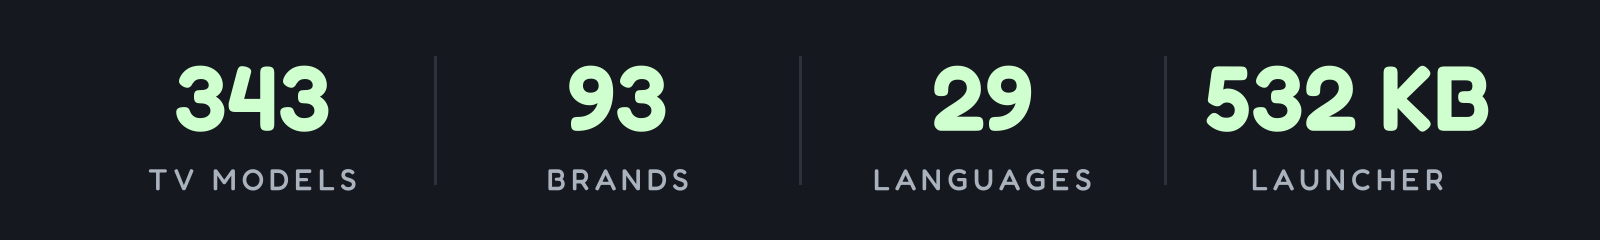
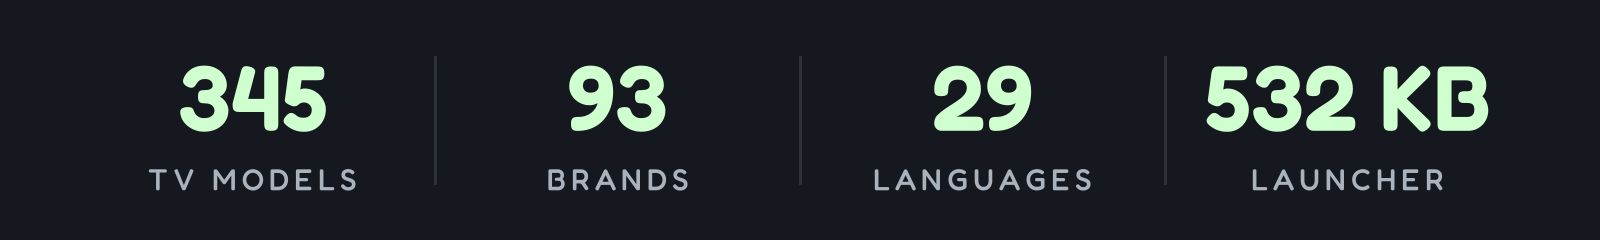
README: tables, counts and card after Round AG2 (345 TV models, 93 brands, 29 languages)

Changed region(s): [[0.0938, 0.2625, 0.2188, 0.5542]]

diff --git a/tools/readme_stats.py b/tools/readme_stats.py
@@ -67,7 +67,7 @@ try:
 except ImportError:
     sys.exit("readme_stats.py needs Pillow: tools/venv/bin/pip install -r tools/requirements-perf.txt")
 
-STATS = [("343", "TV MODELS"), ("93", "BRANDS"), ("29", "LANGUAGES"), ("532 KB", "LAUNCHER")]
+STATS = [("345", "TV MODELS"), ("93", "BRANDS"), ("29", "LANGUAGES"), ("532 KB", "LAUNCHER")]
 W, H = 1600, 240
 img = Image.new("RGB", (W, H), "#15181e"); d = ImageDraw.Draw(img)
 def f(size, wt):

diff --git a/examples/README.md b/examples/README.md
@@ -63,7 +63,7 @@ on that firmware, grouped and commented. These are starting points: comment out 
 | `hisense-fire-tv-55qd6qf/` | Hisense 55QD6QF Fire TV (AFTOLCBC82, ginza), Canada | Fire OS 8.1.8.0 / Android 11 | Fire OS 8.1 TV: Amazon telemetry, ACR, ad/recommendation feeders, advertising ID, Shopping, Channels, tutorials; Amazon preloads, Miracast and Alexa off by choice (vizzini returns at every boot); retailer apps re-enable at boot (remove them in Settings > Applications); Wi-Fi owned by oobe; input switching, the Home key and the homekey broadcast reserved to Amazon; AirPlay, Live TV, Silk, OTA kept; debloat only |
 | `hisense-65d62qh/` | Hisense 65D62QH (VIDAA_TV, MediaTek MT9653), China | Android TV 11 | China JuUI 9.0.10.845, same build as `vidda-mt9653/`: ad SDK/service, home operator rows and weather feed, telemetry, push channel, retail/hotel/demo and preloaded content, the 拍信创意 screensaver, and the AOSP leftovers this build leaves enabled; debloat only, stock Home `com.jamdeo.tv.vod` and Live TV kept, OTA kept; 26 packages; a USB HID freeze seen once with a second accessibility service enabled, fine after a rebuild — see [the device notes](../docs/devices/hisense-65d62qh.md) |
 | `hisense-e5q-pro/` | Hisense E5Q Pro (VIDAA_TV, MediaTek MT9653), China | Android TV 11 | China VIDAA firmware, the conservative subset of `vidda-mt9653/` (same build): ad SDK/service, push, telemetry, store/hotel/demo and preloaded content; stock launcher `com.jamdeo.tv.vod` and Live TV `com.jamdeo.tv.livetv` kept, OTA kept; 18 packages; [55E5Q-PRO ADB and factory-mode guide](hisense-e5q-pro/README.md) |
-| `hisense-fire-tv-aftcibfbd1/` | Hisense Fire TV (AFTCIBFBD1, coyote, MediaTek), US | Fire OS 8.0 / Android 11 | First Fire OS 8 TV: Amazon ACR, ad/recommendation feeders, advertising ID, Shopping, demo, tutorials, telemetry; Alexa, AirPlay, Miracast and preloads (Tubi, Music/Photos, miniTV, Naatyam, games, Ambient) off by choice; Alexa voice (vizzini) is re-enabled at every boot and nothing adb can do sticks; two protected packages noted; HDMI input switching is Amazon-only (TUNE_INPUT is signature-level); AdGuard Private DNS works; Kids, OTA, Live TV, Silk kept; debloat only, see the 2023 stick list for more packages |
+| `hisense-fire-tv-aftcibfbd1/` | Hisense Fire TV (AFTCIBFBD1, coyote, MediaTek), US | Fire OS 8.0 / Android 11 | First Fire OS 8 TV: Amazon ACR, ad/recommendation feeders, advertising ID, Shopping, demo, tutorials, telemetry; Alexa, AirPlay, Miracast and preloads (Tubi, Music/Photos, miniTV, Naatyam, games, Ambient) off by choice; Alexa voice (vizzini) is re-enabled at every boot and nothing adb can do sticks; two protected packages noted; HDMI input switching is Amazon-only (TUNE_INPUT is signature-level); AdGuard Private DNS works; Kids, OTA, Live TV, Silk kept; second unit 65U65SFC (U65 Pro, US) adds more telemetry, popups and promos, Alexa extras, Gallery and Luna; debloat only, see the 2023 stick list for more packages |
 | `hisense-hg9/` | Hisense HG9 (HiSmart 4K A4FFM) | Android TV 9 | ACR collector, Smartsense, log reporter, store mode, B2B; FLauncher used instead of stock; two more units ran launcher/ as Home: USB debugging alone opened ADB, setupwraith kept (owns the saved Wi-Fi), remote app buttons work without app_keys |
 | `hisense-hismarttv-a4-android11/` | Hisense HiSmartTV A4 (xiaoyushan, MStar m7322), Android 11 firmware RTT2.221108.001 | Android TV 11 | Same set after its Android 11 update, now with the FFM-style namespace: Hisense ACR (evservice), push messages, VIDAA Channels, HiAlexa, hotel mode, store disclaimer, Google partner tracking and auto-installs; streaming apps optional; OTA, casting, Assistant kept; USB debugging opens port 5555; the Input key only works through the stock launcher (VIEW_INPUTS); smartsense kept |
 | `hisense-hismarttv-a4/` | Hisense HiSmartTV A4 (xiaoyushan, MStar m7322), India | Android TV 9 | Hisense log reporting, sponsored home rows, store demo, preload auto-installs, OTA; USB debugging opens port 5555, no wireless toggle; smartsense kept |
@@ -138,7 +138,7 @@ on that firmware, grouped and commented. These are starting points: comment out 
 | `philips-google-tv-ta7/` | Philips Google TV TA7 (TPV, PH3M_AL_T32, MediaTek), Brazil; 55PUD7908/77, Latin America; 50PUD7408/77, Argentina | Google TV 14 | TP Vision `candeebug`/`gel` analytics, partner attribution and auto-installs, European operator apps, ad-consent and disclaimer popups; Netflix, Prime Video, Google TV app and Chromecast off by choice, Assistant and OTA kept; setupwraith + launcherx off for a custom launcher (setupwraith owned only an unused network); the gear button is KEYCODE_SETTINGS and needs HomeKeyService (`HOME_KEY_SERVICE=1`); theme; a third unit (50PUD7408/77, Argentina) adds the retail demo, ad-services, feedback and Health Connect, and measured HomeKeyService costing the volume key repeat (gear button or volume ramp, not both) |
 | `philips-r8g-google-tv/` | Philips R8G Google TV (MOKA, whitefield, Realtek RTD2851F), US | Google TV 14 | Anoki ACR, store-demo overlay, Realtek partner customizer, HbbTV (unused with ATSC), Android ad services; voice and ambient mode off by choice; port 5555 opens without pairing; setupwraith owned the Wi-Fi saved at setup and disabling it deleted the network; the standby light can be switched off over ADB ([note](../docs/devices/philips-r8g.md)) |
 | `philips-smart-4k-google-tv/` | Philips Smart 4K TV (Skyworth, eleonas, MediaTek), India | Google TV 14 | Skyworth recommendations, after-sale/activation trackers, iCast; Chromecast, Assistant off by choice; wireless-debugging pairing, setupwraith |
-| `philips-tpm191e/` | Philips TPM191E / 50PUS8505 / 55OLED854 / 65OLED804 / 50PUS7354 (TP Vision, PH9M_EA_5599, MediaTek MT5887), Europe | Android TV 12 | `org.droidtv` TP Vision list on Android 12: DAC analytics uploader, usage logging, demo mode, Top Picks, app gallery; voice, Prime Video, DLNA off by choice; Alexa, Chromecast and updates kept; DTS Play-Fi is re-enabled at every boot by the audio service, so it is left on; `eum`, `nettvbrowser`, `menudataapp` and `nettvregistration` kept, as on the 50PUS8517; for the 50PUS8505 and the 55OLED854, only an owner-selected subset and launcher handover were checked in one session, not the full list; the 55OLED854 found its remote's Settings button (scancode 357) and the OLED screensaver logo also seen on a different board; on one 65OLED804 tvrecommendations stayed off through restarts, and a held Home press needs `home_long_press_home`; another 65OLED804/12-reported unit had stock Home at observation and was not subjected to this list ([notes](philips-tpm191e/README.md)); a 50PUS7354 with the original remote needed `home_long_press_home` too, and had its Netflix (632) and Rakuten (779) keys remapped by scancode |
+| `philips-tpm191e/` | Philips TPM191E / 50PUS8505 / 55OLED854 / 65OLED804 / 50PUS7354 / 43PUS7304 (TP Vision, PH9M_EA_5599, MediaTek MT5887), Europe | Android TV 12 | `org.droidtv` TP Vision list on Android 12: DAC analytics uploader, usage logging, demo mode, Top Picks, app gallery; voice, Prime Video, DLNA off by choice; Alexa, Chromecast and updates kept; DTS Play-Fi is re-enabled at every boot by the audio service, so it is left on; `eum`, `nettvbrowser`, `menudataapp` and `nettvregistration` kept, as on the 50PUS8517; for the 50PUS8505 and the 55OLED854, only an owner-selected subset and launcher handover were checked in one session, not the full list; the 55OLED854 found its remote's Settings button (scancode 357) and the OLED screensaver logo also seen on a different board; on one 65OLED804 tvrecommendations stayed off through restarts, and a held Home press needs `home_long_press_home`; another 65OLED804/12-reported unit had stock Home at observation and was not subjected to this list ([notes](philips-tpm191e/README.md)); a 50PUS7354 with the original remote needed `home_long_press_home` too, and had its Netflix (632) and Rakuten (779) keys remapped by scancode; a 43PUS7304 on Wi-Fi opened port 5555 with USB debugging alone (no Network debugging entry), kept Ambilight working, mapped the same 632/779 keys, and got a channel-list tile from `launch_actions` `org.droidtv.intent.action.CHANLIST` |
 | `polytron-2k-hayward/` | Polytron 2K (WLTV POLYTRON2K, hayward; Hisense/CVTE board, MediaTek mt5867), Indonesia | Android TV 11 | Hisense silent auto-installs, MediaTek partnercustomizer, Google recommendations, feedback and partner setup, store demo and disclaimer; voice search, Chromecast, YouTube, Netflix and TTS off by choice; 1 GB, 720p UI, decoders up to 1080p; tvlauncher + setupwraith off for a custom launcher; Live TV is com.mediatek.wwtv.tvcenter |
 | `portronics-beem-470/` | Portronics Beem 470 Smart LED Projector (Allwinner H713, 1 GB), India | Android 11 | First Portronics list: HTC stock launcher/OTA/telemetry and app store, Allwinner Live TV/media/theme apps, stock YouTube replaced by SmartTube, AOSP phone/print/cell leftovers; casting/EShare kept; HOME key needs both setup flags, and Settings needs an explicit component because the firmware answers no ACTION_SETTINGS |
 | `pptv-p34a4p/` | PPTV p34a4p (Suning PPTV, Amlogic board), China | Android 5.1.1 | First PPTV list; SDK 22, so the repo launcher (minSdk 26) cannot run: debloat only; `pm disable-user` denied (SecurityException, the FFalcon r34a0 / Whaley wall), the list is applied with `pm hide` / `pm unhide` and survives reboots; five ad/push/silent-install packages, the Amlogic bootanimation video ad (five `persist.sys.*` properties, in the header) and the network-layer ads (launcher hifuntv/huan feed, hpplay cast promos) — those layers, the domains that must stay reachable and the stock launcher's HOME lock-in (a custom `HOME.pptv` category; hiding the launcher kills the HOME key after a reboot) are in [the device note](../docs/devices/pptv-p34a4p.md); MyInstallReceiver watchdog reinstall chain dies once its INSTALL_PACKAGES holders are hidden; eight further hides crashed the launcher in a boot loop and were reverted; ADB 5555 open with no auth; reboot-checked |
@@ -158,6 +158,8 @@ on that firmware, grouped and commented. These are starting points: comment out 
 | `sber-salute-tv-at30a6/` | Sber Salute TV 43" (CVTE TP.T962D4.PC756, Amlogic T962D4, at30a6, 2 GB), Russia | StarOS 1.101 / Android 13 | First StarOS list: Sber content apps, SberPrime, kids room, smart home, Salute browser and screensaver, app catalogue, surveys, beta, bug reporter, cleaner, Huawei Cast/MHshare/DLNA receivers; OTA kept by default; Sber's platform service reinstalls removed apps (disable only) and cannot itself be disabled (its core re-enables it, component disables are refused), so the Salute voice assistant stays; Developer options locked and Sber Studio's ADB switch did not open 5555, see README; app "rotation" limit lowered with `sys_storage_threshold_percentage`; Inputs work through `ru.sberdevices.tvinputs`; reboot-checked |
 | `seleco-tv39020hda9smart/` | Seleco TV39020HDA9SMART 39" (AT_SmartScreen, Toptech + Zeasn, Realtek RTK2842P), Italy | Android TV 9 | Same Toptech/Zeasn platform as [caxium-58-realtek-rtk2851p](caxium-58-realtek-rtk2851p/): Zeasn device portal, services feed and store, partner auto-installs, retail demo, print spooler, camera, live wallpapers, Chrome, USB media player; phone Netflix, voice search and Miracast off by choice; shipped with the phone build of Prime Video instead of the TV app, replaced by hand; stock Zeasn Home disabled last; Live TV and inputs stay with `com.toptech.tvmenu`, whose `.input.InputActivity` the Inputs pill opens; the remote's Input key still goes to the Zeasn Home; config.json has the dock; reboot-checked |
 | `sharp-2t-c32gh3000i/` | SHARP 2T-C32GH3000I (SHARP 2K Smart TV-A; Skyworth-built, beomil, MediaTek mt5867), Indonesia | Google TV 14 | Same platform as the Motorola SWTV-24AE-FHD: Skyworth after-sale/activation trackers, recommendation rows and partner customizer, TV Guard, Daily Key, e-manual, iCast; Android ad services; dreamx, Chromecast, Prime Video, YouTube Music off by choice; wireless-debugging pairing only; setupwraith owned the Wi-Fi saved at setup; remote gear sends keycode 83; Live TV is `com.cltv.hybrid`; 1 GB |
+| `sharp-55gp6260e/` | SHARP 55GP6260E (Sharp Google TV, kaitak, MediaTek MTK9612), EU | Google TV 11 | Partner rows, retail demo, e-manual; Netflix, Disney+, Prime Video, YouTube, YouTube Music, Play Games, Twitch and NordVPN off by choice; setupwraith owned the Wi-Fi saved at setup and claims Home; remote gear is KEYCODE_FOCUS (80), YouTube is KEYCODE_TV_INPUT_COMPOSITE_1, Prime Video is KEYCODE_TV_INPUT_COMPONENT_2, FAV APP is KEYCODE_BUTTON_11 (opens the e-manual), Netflix is KEYCODE_STEM_1 (a held volume key steps once with HOME_KEY_SERVICE=1); ro.adb.secure unset; one session, not days |
+| `sharp-4t-c43dl1/` | SHARP AQUOS 4T-C43DL1 (AQUOS-TVJ21-2, tcve2uj, MediaTek), Japan | Android TV 11 | Sharp's own Japan-market platform (`jp.co.sharp.av.*`, not CVTE): Sharp analytics, retail demo, PAI auto-installs, COCORO VISION, 番組ランキング, AQUOS City; Google feedback, partner setup, Ambient Mode and recommendations; Assistant, Chromecast, phone remotes, COCORO ID, DLNA and unused streaming off by choice; Live TV is `jp.co.sharp.av.android.aquostvapp`; 3 GB, 32-bit only |
 | `sharp-aquos-tve21f/` | SHARP AQUOS TVE21F (AQUOS-TVE21F, banqiao, CVTE/MediaTek), UK | Android TV 14 | Anoki ACR, retail demo, factory/test apps, PAI auto-installs; Google recommendations and setup wizard (Wi-Fi owned by system); Assistant, Chromecast and phone remote off by choice; unused streaming off by choice; 1.8 GB; YouTube button stays with the vendor `com.cvte.hotkey.dispatcher` |
 | `sharp-aquos-tve23a/` | SHARP AQUOS TVE23A (AQUOS-TVE23A, sandiego, CVTE/MediaTek mt5889), Denmark | Google TV 14 | Google TV sibling of the TVE21F: Anoki ACR, retail demo, e-manual, factory/test apps, partner rows; Android ad services; Prime Video, YouTube, YouTube Music, Play Games, Chromecast and Google TTS off by choice; setupwraith owned the Wi-Fi saved at setup; remote gear is KEYCODE_STAR (17), YouTube is KEYCODE_TV_INPUT_COMPOSITE_1, Netflix stays with the firmware; 2.7 GB |
 | `skyworth-8r40-k5c/` | Skyworth / Coocaa 8R40_K5C (Realtek rtd285x, 1 GB, 32-bit), China domestic firmware | Android 8.0 (not Google TV) | `com.tianci.*` / `com.coocaa.*` firmware, not the `com.smartdevice.*` Google-TV Skyworth below; 16 packages: Coocaa ad engine, push, app store, Baidu Oases, mall, activity center, browser, PiTV, weather, blockchain and smart-home preloads (six already ship disabled); **keep `com.tianci.de`, `com.skyworthdigital.stb.dataprovider` and `com.coocaa.sky.ccapi`**: disabling them crashes About this TV, which holds the only ADB toggle, and recovery is a factory reset, so install Activity Launcher first (`coocaa.intent.action.TIANCI_FACTORY`); no package declares HOME and `/system/pcfg` resets it at boot, so never disable `com.tianci.movieplatform` (black screen) and no third-party launcher; boot ad off with `persist.sys.bootvideo.time 1`; debloat only; reboot-checked; [device guide](../docs/devices/skyworth-8r40-k5c.md) |
@@ -173,7 +175,6 @@ on that firmware, grouped and commented. These are starting points: comment out 
 | `skyworth-swtv-24ae-4k-nf/` | Skyworth SWTV-24AE-4K NF (eleonas, MediaTek mt5896), South Africa/Global | Google TV 14 | Same eleonas platform as SWTV-24NA-4K NF; Skyworth telemetry (recordactivation, aftersale), ad services, recommendation rows and partner customizer, Ginga/MHEG off; Health Connect, e-manual, TV Guard (dailymanage), Daily Key (myapp), Play Games off; streaming apps and OTA off by choice; custom launcher (com.gathin.tvhome) installed; setupwraith safe to disable (Wi-Fi owned by android.uid.system, not setupwraith); wireless-debugging pairing only; port 5555 closes on reboot; com.cltv.hybrid disabled from factory |
 | `skyworth-swtv-24na-4k-nf/` | Skyworth SWTV-24NA-4K NF (eleonas, MediaTek mt5896), US | Google TV 14 | Same platform as the India Philips Smart 4K: Skyworth recommendations, after-sale/activation trackers, partner customizer, Ginga/MHEG; casting, karaoke, OTA kept by choice; wireless-debugging pairing only; setupwraith owned the Wi-Fi saved at setup and disabling it deleted the network |
 | `skyworth-xiaopai-p3/` | Skyworth Xiaopai P3 (Q5001, cupid-p2), streaming box | Android 10 | Skyworth ads and store, Miracast, the Allwinner factory agents and the stock launcher once a replacement was Home; keeps Live TV, Bluetooth, the remote and firmware updates |
-| `sony-bravia-ae1/` | Sony BRAVIA 4K AE1 (BRAVIA_AE_M6L, MediaTek MT5897), EU | Google TV 12 | Samba TV ACR, Sony/Qterics agents, promos and Sony tab, partner auto-installs, demo mode, help; voice, AirPlay, DLNA, USB media, UK broadcaster apps off by choice; setupwraith; Settings/Netflix/YouTube/Prime buttons by scancode with HomeKeyService (costs the held-volume ramp) |
 | `sony-bravia-ae2/` | Sony BRAVIA 4K AE2 (BRAVIA_AE2, MediaTek MT5897), North America | Google TV 14 | Samba TV, Sony agents/promos/Select, demo mode, ATSC tuner unused outside NA; launcherx + setupwraith; wireless-debugging pairing, screensaver note |
 | `sony-bravia-4k-gb-us/` | Sony BRAVIA 4K GB (BRAVIA_ATV2_UC, MediaTek mt5891) | Android TV 9 | Same platform as the X900E: Samba TV, Sony promos/Select/Discover, device agents; Chromecast, mirroring off by choice, DLNA kept; "ADB debugging" label |
 | `sony-bravia-4k-gb/` | Sony BRAVIA 4K GB (KD-75XE8596, XBR-49X705D; BRAVIA_ATV2_EU, BRAVIA_ATV2_BR) | Android TV 9 | Samba TV ACR, Sony Select/promos/Discover, demo mode, device agents; same firmware as the X900E; Chromecast, mirroring, DLNA and USB media kept on purpose |
@@ -210,6 +211,7 @@ on that firmware, grouped and commented. These are starting points: comment out 
 | `sony-xbr-55x850d/` | Sony BRAVIA XBR-55X850D (Android model "BRAVIA 4K 2015"), firmware 6.827 | Android TV 8.0.0 | 19 reversible disables, Roku-primary; TVX/HDMI, CEC, casting and updates preserved; new Home survives reboot; owner-reported 26-second start after >24-hour standby, separate 48-second unplug/replug start; [test notes](sony-xbr-55x850d/README.md) |
 | `sony-xbr-x900e/` | Sony BRAVIA XBR-65X900E (2017, BRAVIA_ATV2) | Android TV 9 | Samba TV ACR, Sony Select, My BRAVIA promos, Discover, device agents; Chromecast, DLNA, mirroring off by choice |
 | `sony-xbr-65x900f/` | Sony BRAVIA XBR-65X900F (2018, BRAVIA_ATV3_4K, MediaTek MT5891), US/Canada | Android TV 9 | Same build as the X900E on the next platform (ATV3); Samba TV, Sony Select/promos/Discover, Google recommendation rows, demo mode, device agents, Alexa setup app; Assistant, mirroring, DLNA, phone remote, USB players off by choice; Chromecast kept; the sponsored banner is the stock launcher's own |
+| `sony-bravia-ae1/` | Sony BRAVIA XR-55A95L (A95L, 2023 QD-OLED; Android reports BRAVIA 4K AE1, BRAVIA_AE_M6L, MediaTek MT5838), EU | Google TV 12 | Samba TV ACR, Sony/Qterics agents, promos and Sony tab, partner auto-installs, demo mode, help; voice, AirPlay, DLNA, USB media, UK broadcaster apps off by choice; setupwraith; Settings/Netflix/YouTube/Prime buttons by scancode with HomeKeyService (costs the held-volume ramp) |
 | `sony-kd-55x7500-cn/` | Sony KD-55X7500 (BRAVIA 4K GB ATV3, BRAVIA_ATV3_4K_CN), China | Android TV 9 | Ten reversible disables: Sony Select/Discover/content recommendations, Android TV recommendations, retail demos, bug reporting and Sony/Qterics device agents; TVX/HDMI, remote/Bluetooth, networking, casting, USB media and firmware updates kept; stock tvlauncher disabled separately after custom Home was verified; owner reports several days of normal use with nothing re-enabled |
 | `sony-xr-65a80j/` | Sony XR-65A80J (65-inch OLED, 2021, BRAVIA_VH2), EU | Google TV 12 | Samba TV ACR, Sony/Google telemetry, Sony promos, hotel mode and unused AirPlay/DLNA/HbbTV/BRAVIA CAM; voice, Chromecast, Miracast, updates and Ambient mode kept; custom Cosy Home-based launcher on Ethernet; used for a few days on Ethernet |
 | `sony-xr-65x90j-cn/` | Sony XR-65X90J (2021, BRAVIA_VH2, MediaTek MT5895), China | Android TV 10 | China firmware with no Samba TV, no Google feedback and no Sony promos/Select/tab, so there is no Sony ACR to remove; first VH2 list on Android 10; demo/help, BRAVIA CAM leftovers (no camera), IDD/bug-report/usercontext/seeds, JD SmartService, QuickSet, 12 b2b hotel-mode packages and DLNA off; Dangbei home and store kept (the Dangbei home as HOME fallback behind an owner-supplied third-party launcher); HappyCast kept; all 47 disables survived a reboot and persist and hotelmode did not come back |
@@ -277,7 +279,7 @@ on that firmware, grouped and commented. These are starting points: comment out 
 | `tcl-beyondtv-rt2851/` | TCL BeyondTV, EU/Nordic (Realtek RTD2851, V8-R851T02-LF1V606) | Android TV 9 | TCL BI analytics, promo rows, cyberui, cleaner and store; mirroring, voice and firmware updater off by choice; Chromecast kept; installer note for appmarket2/tvweishi; remote buttons and HDMI inputs in [the device note](../docs/devices/tcl-beyondtv-rt2851.md) |
 | `tcl-beyondtv-pl/` | TCL BeyondTV, Poland (Realtek RTD2851, AP03, 2 GB) | Android TV 9 | TCL BI analytics, promo rows, cyberui, TV Guard and app store, preloads; voice, Miracast/T-Cast, YouTube, player.pl, Spotify and Steam Link off by choice; Chromecast and firmware updater kept; `com.tcl.notereminder` is re-enabled at every boot; launcher installed as default home, stock launcher disabled; one session plus a reboot, not yet lived with for days |
 | `tcl-beyondtv2-latin-america/` | TCL BeyondTV2 (Latin America / Brazil, Realtek RTD2851); also confirmed on a 55" unit | Android TV 9 | TCL analytics, boot content feed, account/setup screens, Samba, extra content rows; voice (Google Assistant, TCL's Alexa) and Chromecast off by choice; `com.tcl.notereminder`, `smartalexa`, `tclhome_master` and `usercenter` get restored by the firmware on their own; `com.tcl.esticker` sticks disabled on the second unit but not the first; UK Freeview apps already off at the factory; [draw-cost notes](../docs/devices/tcl-beyondtv2-v660.md) |
-| `tcl-beyondtv2-android-11/` | TCL BeyondTV2, Android 11 build (AR05, Realtek rtd285o) | Android TV 11 | Different package set from the Android 9 BeyondTV2 above (adds `overseasappshow`, `usercenter`, MagiConnect, `notereminder`); **`com.tcl.overseasappshow` re-enables MagiConnect, notereminder and tclhome_master on every boot**, so it is the key entry; partnercustomizer kept (it carries the remote's TKey activity on this unit); voice, mirroring, phone remote and backdrop off by choice, OTA kept; 3 HDMI ports, TvInputManager works, setupwraith safe |
+| `tcl-beyondtv2-android-11/` | TCL BeyondTV2, Android 11 build (AR05, Realtek rtd285o); also sold as the Hitachi CDH-LE554KSMART22 (Argentina) | Android TV 11 | Different package set from the Android 9 BeyondTV2 above (adds `overseasappshow`, `usercenter`, MagiConnect, `notereminder`); **`com.tcl.overseasappshow` re-enables MagiConnect, notereminder and tclhome_master on every boot**, so it is the key entry; partnercustomizer kept (it carries the remote's TKey activity on this unit); voice, mirroring, phone remote and backdrop off by choice, OTA kept; 3 HDMI ports, TvInputManager works, setupwraith safe; confirmed on a second, re-badged unit where `smartalexa` and `smartconnect.tv` came enabled and disabling `overseasappshow` first kept the list off across reboots |
 | `tcl-c635/` | TCL C635 (Smart TV Pro, BeyondTV4, Realtek rtd288o, Android 11/SDK 30), Brazil | Android TV 11 | TCL BI analytics (com.tcl.bi), logkit, promo waterfall feed, channelplus FAST, partner customizer/attribution, browser, gallery, retail demo (esticker, ocean.instructions, useragreement, factory.view); `com.tcl.overseasappshow` disabled first so promo packages do not re-enable on boot (au.com.stan.and and tv.wuaki.apptv arrive pre-disabled at factory); gamebar kept by choice; Live TV (com.tcl.tv + com.tcl.tvinput), hardware HDMI inputs, voice, OTA and BT remote kept; Google TV launcher stays as fallback; this repo's launcher (com.gathin.tvhome) verified; animation scales set to 0.5 and heavy apps AOT-compiled for faster launch |
 | `tcl-c755-google-tv/` | TCL C755 QD-Mini LED, 2024, Australia and UAE (G08, MediaTek tcl9618) | Google TV 14 | Samba TV ACR (ttvs), TCL Live, store/hotel demo, Stan; casting and mirroring off by choice; keep `tv.remote.service` (it carries the remote's mic) |
 | `tcl-c89b-google-tv/` | TCL C89B 85", 2024, a local variant of the C855 (G08, G08_4K_GB, MediaTek tcl9618) | Google TV 14 | Same product and build as the 85RM7L list (UTT2.250416.001 AU02), plus T-Cast, TCL HOME (com.tcl.dashboard), game bar, hearing test, T-solo, the Google TV storefront and the Android 14 ad services; Chromecast, AirPlay, Miracast, Assistant and USB media kept; launcherx + setupwraith off for the launcher (on Ethernet; setupwraith owned no network); config.json maps the gear (83) and the Netflix, Prime Video and YouTube buttons (4062, 4099, 190); HomeKeyService needs AUTO_START plus `appops write-settings` to bind after a restart; one day of use |

diff --git a/README.md b/README.md
@@ -25,7 +25,7 @@
 </p>
 
 <p align="center">
-  <a href="docs/PRESS.md"><img src="docs/card.jpg" alt="343 TV models · 93 brands · 29 languages · 532 KB launcher. Featured in TechCrunch, TechRadar, Tom's Guide, Mashable, Android Authority, XDA, FlatpanelsHD, It's FOSS, Phandroid, GIGAZINE, Xataka, WinFuture, Frandroid, Macitynet, Techaeris, TechPP and 297 more: 313 articles from 44 countries. Before: stock Google TV home with a sponsored ad. After: the Clean Your TV launcher." width="800"></a>
+  <a href="docs/PRESS.md"><img src="docs/card.jpg" alt="345 TV models · 93 brands · 29 languages · 532 KB launcher. Featured in TechCrunch, TechRadar, Tom's Guide, Mashable, Android Authority, XDA, FlatpanelsHD, It's FOSS, Phandroid, GIGAZINE, Xataka, WinFuture, Frandroid, Macitynet, Techaeris, TechPP and 297 more: 313 articles from 44 countries. Before: stock Google TV home with a sponsored ad. After: the Clean Your TV launcher." width="800"></a>
 </p>
 
 **Samsung, LG, Roku or another non-Android TV?** CleanYourTV can't run there, but you can still turn off
@@ -130,8 +130,8 @@ Tested lists from contributors, one folder per model in [`examples/`](examples/)
 <!-- tv-brands:start: generated by tools/gen_tables.py from examples/*/tv.json; edit those, not this -->
 
 **TCL** 76 · **Sony** 40 · **Xiaomi** 32 · **Philips** 18 · **Skyworth** 14 · **Hisense** 11 · **Amazon Fire TV** 7 ·
-**Panasonic** 6 · **BenQ** 5 · **JVC** 4 · **OnePlus** 4 · **Thomson** 4 · **Google** 3 · **Grundig** 3 · **Haier** 3 ·
-**Motorola** 3 · **NVIDIA Shield** 3 · **RCA** 3 · **Redmi** 3 · **SHARP** 3 · **Toshiba** 3 · **Vu** 3 · **CHiQ** 2 ·
+**Panasonic** 6 · **BenQ** 5 · **SHARP** 5 · **JVC** 4 · **OnePlus** 4 · **Thomson** 4 · **Google** 3 · **Grundig** 3 ·
+**Haier** 3 · **Motorola** 3 · **NVIDIA Shield** 3 · **RCA** 3 · **Redmi** 3 · **Toshiba** 3 · **Vu** 3 · **CHiQ** 2 ·
 **EKO** 2 · **FFalcon** 2 · **Hitachi** 2 · **Insignia Fire TV** 2 · **Kalley** 2 · **Kogan** 2 · **Nokia** 2 ·
 **onn** 2 · **RockTek** 2 · **Sankey** 2 · **Sber** 2 · **Vidda** 2 ·
 Acer · AiPro2K · AIWA · AQUA · Artel · ASUS · Beko · BGH · Caxium · Cecotec · Challenger · Compac · Dcolor · Dialog ·
@@ -280,7 +280,7 @@ Alwtniet, Anker Nebula, BYINTEK, Epson, Formovie, Gadnic, HOTACK, HY320, JMGO, M
 | Philips Google TV TA7 (TPV, PH3M_AL_T32, MediaTek), Brazil; 55PUD7908/77, Latin America; 50PUD7408/77, Argentina | Google TV 14 |
 | Philips R8G Google TV (MOKA, whitefield, Realtek RTD2851F), US | Google TV 14 |
 | Philips Smart 4K TV (Skyworth, eleonas, MediaTek), India | Google TV 14 |
-| Philips TPM191E / 50PUS8505 / 55OLED854 / 65OLED804 / 50PUS7354 (TP Vision, PH9M_EA_5599, MediaTek MT5887), Europe | Android TV 12 |
+| Philips TPM191E / 50PUS8505 / 55OLED854 / 65OLED804 / 50PUS7354 / 43PUS7304 (TP Vision, PH9M_EA_5599, MediaTek MT5887), Europe | Android TV 12 |
 | Polytron 2K (WLTV POLYTRON2K, hayward; Hisense/CVTE board, MediaTek mt5867), Indonesia | Android TV 11 |
 | Portronics Beem 470 Smart LED Projector (Allwinner H713, 1 GB), India | Android 11 |
 | PPTV p34a4p (Suning PPTV, Amlogic board), China | Android 5.1.1 |
@@ -300,6 +300,8 @@ Alwtniet, Anker Nebula, BYINTEK, Epson, Formovie, Gadnic, HOTACK, HY320, JMGO, M
 | Sber Salute TV 43" (CVTE TP.T962D4.PC756, Amlogic T962D4, at30a6, 2 GB), Russia | StarOS 1.101 / Android 13 |
 | Seleco TV39020HDA9SMART 39" (AT_SmartScreen, Toptech + Zeasn, Realtek RTK2842P), Italy | Android TV 9 |
 | SHARP 2T-C32GH3000I (SHARP 2K Smart TV-A; Skyworth-built, beomil, MediaTek mt5867), Indonesia | Google TV 14 |
+| SHARP 55GP6260E (Sharp Google TV, kaitak, MediaTek MTK9612), EU | Google TV 11 |
+| SHARP AQUOS 4T-C43DL1 (AQUOS-TVJ21-2, tcve2uj, MediaTek), Japan | Android TV 11 |
 | SHARP AQUOS TVE21F (AQUOS-TVE21F, banqiao, CVTE/MediaTek), UK | Android TV 14 |
 | SHARP AQUOS TVE23A (AQUOS-TVE23A, sandiego, CVTE/MediaTek mt5889), Denmark | Google TV 14 |
 | Skyworth / Coocaa 8R40_K5C (Realtek rtd285x, 1 GB, 32-bit), China domestic firmware | Android 8.0 (not Google TV) |
@@ -315,7 +317,6 @@ Alwtniet, Anker Nebula, BYINTEK, Epson, Formovie, Gadnic, HOTACK, HY320, JMGO, M
 | Skyworth SWTV-24AE-4K NF (eleonas, MediaTek mt5896), South Africa/Global | Google TV 14 |
 | Skyworth SWTV-24NA-4K NF (eleonas, MediaTek mt5896), US | Google TV 14 |
 | Skyworth Xiaopai P3 (Q5001, cupid-p2), streaming box | Android 10 |
-| Sony BRAVIA 4K AE1 (BRAVIA_AE_M6L, MediaTek MT5897), EU | Google TV 12 |
 | Sony BRAVIA 4K AE2 (BRAVIA_AE2, MediaTek MT5897), North America | Google TV 14 |
 | Sony BRAVIA 4K GB (BRAVIA_ATV2_UC, MediaTek mt5891) | Android TV 9 |
 | Sony BRAVIA 4K GB (KD-75XE8596, XBR-49X705D; BRAVIA_ATV2_EU, BRAVIA_ATV2_BR) | Android TV 9 |
@@ -352,6 +353,7 @@ Alwtniet, Anker Nebula, BYINTEK, Epson, Formovie, Gadnic, HOTACK, HY320, JMGO, M
 | Sony BRAVIA XBR-55X850D (Android model "BRAVIA 4K 2015"), firmware 6.827 | Android TV 8.0.0 |
 | Sony BRAVIA XBR-65X900E (2017, BRAVIA_ATV2) | Android TV 9 |
 | Sony BRAVIA XBR-65X900F (2018, BRAVIA_ATV3_4K, MediaTek MT5891), US/Canada | Android TV 9 |
+| Sony BRAVIA XR-55A95L (A95L, 2023 QD-OLED; Android reports BRAVIA 4K AE1, BRAVIA_AE_M6L, MediaTek MT5838), EU | Google TV 12 |
 | Sony KD-55X7500 (BRAVIA 4K GB ATV3, BRAVIA_ATV3_4K_CN), China | Android TV 9 |
 | Sony XR-65A80J (65-inch OLED, 2021, BRAVIA_VH2), EU | Google TV 12 |
 | Sony XR-65X90J (2021, BRAVIA_VH2, MediaTek MT5895), China | Android TV 10 |
@@ -419,7 +421,7 @@ Alwtniet, Anker Nebula, BYINTEK, Epson, Formovie, Gadnic, HOTACK, HY320, JMGO, M
 | TCL BeyondTV, EU/Nordic (Realtek RTD2851, V8-R851T02-LF1V606) | Android TV 9 |
 | TCL BeyondTV, Poland (Realtek RTD2851, AP03, 2 GB) | Android TV 9 |
 | TCL BeyondTV2 (Latin America / Brazil, Realtek RTD2851); also confirmed on a 55" unit | Android TV 9 |
-| TCL BeyondTV2, Android 11 build (AR05, Realtek rtd285o) | Android TV 11 |
+| TCL BeyondTV2, Android 11 build (AR05, Realtek rtd285o); also sold as the Hitachi CDH-LE554KSMART22 (Argentina) | Android TV 11 |
 | TCL C635 (Smart TV Pro, BeyondTV4, Realtek rtd288o, Android 11/SDK 30), Brazil | Android TV 11 |
 | TCL C755 QD-Mini LED, 2024, Australia and UAE (G08, MediaTek tcl9618) | Google TV 14 |
 | TCL C89B 85", 2024, a local variant of the C855 (G08, G08_4K_GB, MediaTek tcl9618) | Google TV 14 |
